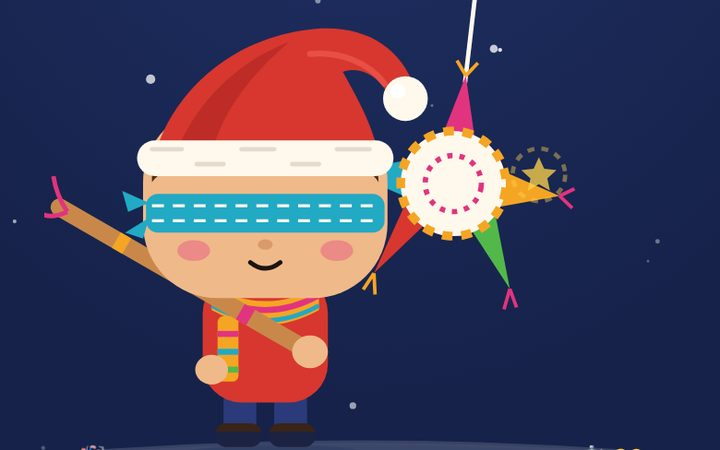
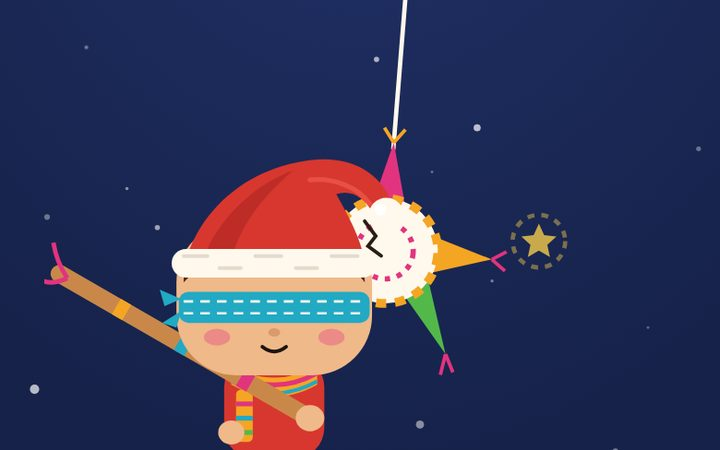
Landing page game cards show screenshots; La Posada first
Claude-Session: https://claude.ai/code/session_01FvuP1Dx5U5dAXfTBG2Jy9G

diff --git a/index.html b/index.html
@@ -86,7 +86,13 @@ section{padding:56px 0}
 .homeTip{text-align:center;color:var(--muted,#aab4d6);font-weight:700;font-size:14px;margin-top:18px}
 .minis{display:grid;grid-template-columns:repeat(4,1fr);gap:16px;margin-top:28px}@media (max-width:1100px) and (min-width:861px){.minis{grid-template-columns:repeat(2,1fr)}}
 .minicard{display:grid;gap:8px;align-content:start;padding:22px;border-radius:24px;text-decoration:none;background:linear-gradient(160deg,rgba(226,51,127,.18),rgba(34,169,196,.12));border:1px solid rgba(245,198,106,.3);transition:transform .15s}
-.minicard:hover{transform:translateY(-3px)}.minicard .mi{font-size:40px}.minicard b{color:var(--gold);font-weight:900}
+.minicard:hover{transform:translateY(-3px)}.minicard{padding:0!important;overflow:hidden;gap:0!important}
+.minicard .shot{position:relative;display:block;aspect-ratio:16/10;overflow:hidden;background:#101a3c}
+.minicard .shot img{position:absolute;inset:0;width:100%;height:100%;object-fit:cover;transition:transform .3s}
+.minicard:hover .shot img{transform:scale(1.05)}
+.minicard .mi{position:absolute;right:10px;bottom:8px;font-size:30px;filter:drop-shadow(0 3px 6px rgba(0,0,0,.45))}
+.minicard .mb{display:grid;gap:8px;padding:16px 18px 20px}
+.minicard .mb h3{margin:0}.minicard .mb p{margin:0}.minicard b{color:var(--gold);font-weight:900}
 @media (max-width:860px){.minis{grid-template-columns:1fr}}
 .final{padding:44px 24px;border-radius:32px;text-align:center;display:grid;justify-items:center;gap:14px;background:radial-gradient(80% 120% at 50% 0%,rgba(245,165,36,.22),rgba(22,34,74,.4));border:1px solid rgba(245,198,106,.35)}
 footer{padding:30px 0 50px;display:flex;flex-wrap:wrap;gap:10px 22px;justify-content:space-between;color:var(--muted);font-size:14px;font-weight:700}
@@ -149,10 +155,10 @@ footer a{color:var(--muted)}
   <section id="minis">
     <div class="center"><span class="kicker" data-t="mK">Mini games</span><h2 data-t="mT">Quick games for the whole familia</h2><a class="cta alt" href="/juegos" data-t="mAll" style="min-height:46px;font-size:16px">🎮 See all games →</a></div>
     <div class="minis">
-      <a class="minicard" href="/trineo"><span class="mi">🛷</span><h3>El Trineo</h3><p data-t="m1">Race down to the posada past mariachis, burros, the tamal cart and Tía's flying chancla.</p><b data-t="mGo">Play →</b></a>
-      <a class="minicard" href="/tamalazo"><span class="mi">🫔</span><h3>¡Tamalazo!</h3><p data-t="m2">Win los terrenos back from your tíos and tías with an olla of tamales. Never hit Abuelita.</p><b data-t="mGo">Play →</b></a>
-      <a class="minicard" href="/pinata#play"><span class="mi">🪅</span><h3>La Piñata</h3><p data-t="m4">Time your swings, survive the rope yank, then grab the candy.</p><b data-t="mGo">Play →</b></a>
-      <a class="minicard" href="/play"><span class="mi">🏠</span><h3>La Posada</h3><p data-t="m3">Five levels, five bosses and a live family leaderboard.</p><b data-t="mGo">Play →</b></a>
+      <a class="minicard" href="/play"><span class="shot"><img src="/assets/shot-posada.jpg" alt="" loading="lazy"><span class="mi">🏠</span></span><span class="mb"><h3>La Posada</h3><p data-t="m3">Five levels, five bosses and a live family leaderboard.</p><b data-t="mGo">Play →</b></span></a>
+      <a class="minicard " href="/trineo"><span class="shot"><img src="/assets/shot-trineo.jpg" alt="" loading="lazy" style="object-position:50% 90%"><span class="mi">🛷</span></span><span class="mb"><h3>El Trineo</h3><p data-t="m1">Race down to the posada past mariachis, burros, the tamal cart and Tía's flying chancla.</p><b data-t="mGo">Play →</b></span></a>
+      <a class="minicard " href="/tamalazo"><span class="shot"><img src="/assets/shot-tamalazo.jpg" alt="" loading="lazy"><span class="mi">🫔</span></span><span class="mb"><h3>¡Tamalazo!</h3><p data-t="m2">Load the resortera and win los terrenos back from your tíos and tías. Never hit Abuelita.</p><b data-t="mGo">Play →</b></span></a>
+      <a class="minicard " href="/pinata#play"><span class="shot"><img src="/assets/shot-pinata.jpg" alt="" loading="lazy"><span class="mi">🪅</span></span><span class="mb"><h3>La Piñata</h3><p data-t="m4">Beat the clock, land golden swings, then grab the candy.</p><b data-t="mGo">Play →</b></span></a>
     </div>
   </section>
 
@@ -172,7 +178,7 @@ const ES={kick:"Gratis · Sin apps · Español e inglés",h1:"Secret Santa, <em>
   f2t:"Piñatas sorpresa",f2p:"Pégale hasta que se rompa y guarda tu Secret Santa y su lista como imagen.",f3t:"Tabla familiar",f3p:"Puntos en vivo solo para tu grupo. A Tío Beto no le va a gustar perder.",
   f4t:"Bilingüe desde el principio",f4p:"Cada persona recibe mensajes y páginas en su idioma, español o inglés.",
   gK:"El juego",gT:"La Posada",gP:"Cinco niveles de puro relajo posadero. Esquiva chanclas voladoras, humo de chile y tías criticonas, arma combos hasta ×5 y vence a un jefe al final de cada nivel.",gCta:"🎮 Jugar ahora",
-  mK:"Minijuegos",mT:"Juegos rápidos para toda la familia",m1:"Bájate hasta la posada esquivando mariachis, burros, el carrito de tamales y la chancla de la tía.",m2:"¡Gánale los terrenos a tus tías y tíos con una olla de tamales! Nunca a la Abuelita.",m3:"Cinco niveles, cinco jefes y una tabla familiar en vivo.",m4:"Pégale a tiempo, aguanta los jalones del tío y luego agarra los dulces.",mGo:"Jugar →",
+  mK:"Minijuegos",mT:"Juegos rápidos para toda la familia",m1:"Bájate hasta la posada esquivando mariachis, burros, el carrito de tamales y la chancla de la tía.",m2:"Carga la resortera y gánale los terrenos a tus tías y tíos. Nunca a la Abuelita.",m3:"Cinco niveles, cinco jefes y una tabla familiar en vivo.",m4:"Gánale al reloj, pega golpes dorados y luego agarra los dulces.",mGo:"Jugar →",
   endK:"¡Ándale!",endT:"Tu posada te espera",endP:"Empieza en cinco minutos. Tu familia no necesita cuenta, ni descargas, ni pagar nada.",priv:"Privacidad y términos",veci:"Hecho con cariño por La Veci Productions"};
 const EN={}; document.querySelectorAll("[data-t]").forEach(el=>{ if(!(el.dataset.t in EN)) EN[el.dataset.t]=el.innerHTML; });
 function returning(){ try{ const d=JSON.parse(localStorage.getItem("santa-host-v1")||"null"); if(d&&d.groups&&Object.values(d.groups).some(g=>g.setup)) return true; return !!localStorage.getItem("posada-auth-v1"); }catch(e){ return false; } }
